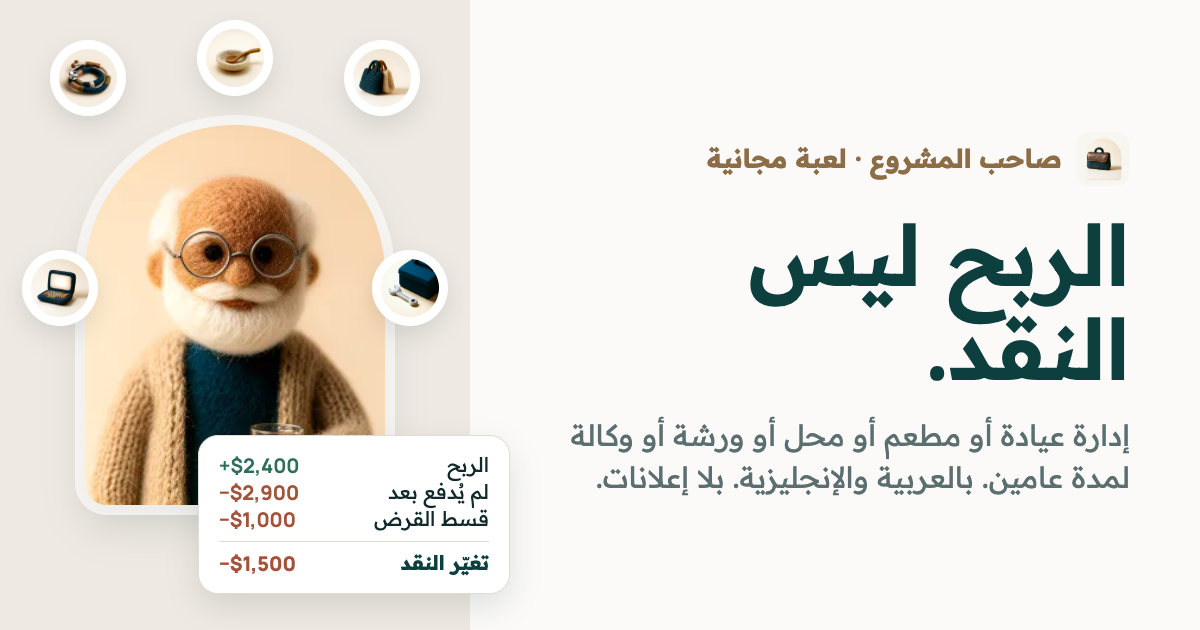
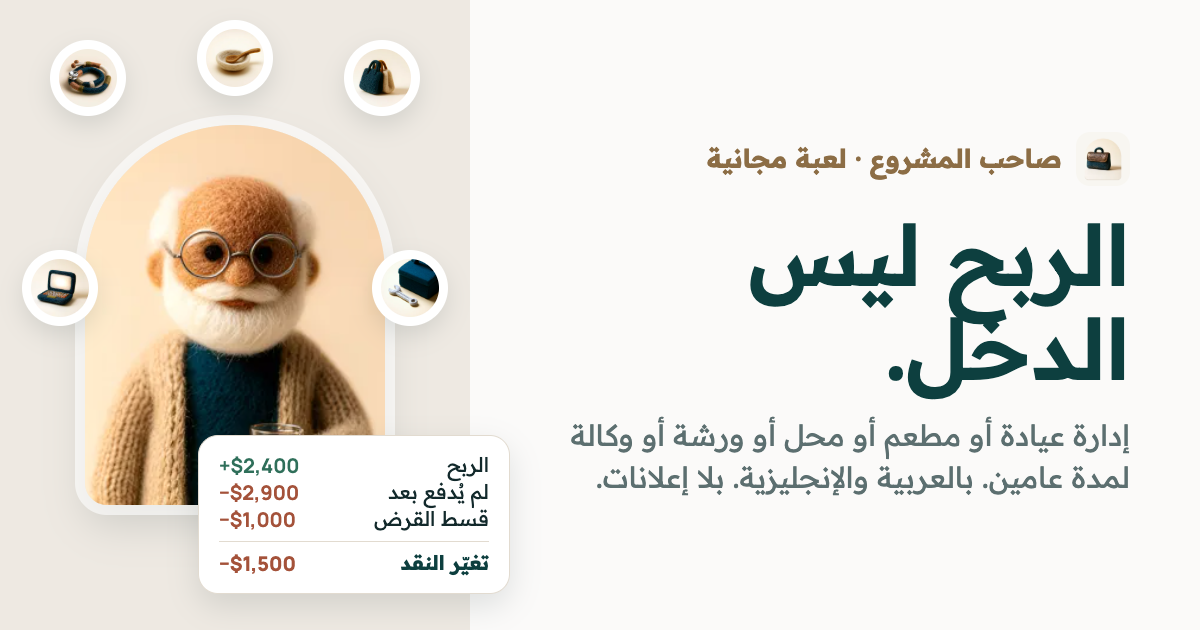
Change the Arabic headline to الربح ليس الدخل

Changed region(s): [[0.74, 0.4825, 0.8942, 0.6333]]

diff --git a/businessowner/ar.html b/businessowner/ar.html
@@ -306,7 +306,7 @@ h1.words .w { display: inline-block; opacity: 0; transform: translateY(.35em); a
     <div class="hero-grid">
       <div>
         <div class="kicker reveal">لعبة مجانية لأصحاب المشاريع الصغيرة</div>
-        <h1 class="words">الربح ليس النقد.</h1>
+        <h1 class="words">الربح ليس الدخل.</h1>
         <p class="sub reveal" style="--i:2">إدارة مشروع صغير لمدة عامين: عيادة أو مطعم أو محل أو ورشة أو وكالة. تحديد الأسعار، والتوظيف، وتحصيل المستحقات، ودفع الإيجار قبل وصول العملاء، وعدم نسيان راتب صاحب المشروع نفسه. العم صلاح أدار صيدلية <bdi class="n">30</bdi> عامًا، ويترك ملاحظة بعد كل اختيار.</p>
         <div class="ctas reveal" style="--i:3"><a class="btn btn-primary" href="../owner/?lang=ar"><img src="../owner/img/briefcase.webp" alt="" width="160" height="160">العبوا الآن</a><a class="btn" href="#programmes"><img src="../owner/img/classical_building.webp" alt="" width="160" height="160">للبرامج والحاضنات</a></div>
         <p class="note reveal" style="--i:4">مجانية · بالعربية والإنجليزية · بلا إعلانات ولا حسابات ولا مشتريات</p>
@@ -315,7 +315,7 @@ h1.words .w { display: inline-block; opacity: 0; transform: translateY(.35em); a
         <figure class="arch mentor" style="margin:0"><img src="../owner/img/old_man.webp" alt="العم صلاح" width="320" height="320">
           <img class="orbit o0" src="../owner/img/stethoscope.webp" alt="" width="160" height="160"><img class="orbit o1" src="../owner/img/cooking.webp" alt="" width="160" height="160"><img class="orbit o2" src="../owner/img/shopping_bags.webp" alt="" width="160" height="160"><img class="orbit o3" src="../owner/img/wrench.webp" alt="" width="160" height="160"><img class="orbit o4" src="../owner/img/laptop.webp" alt="" width="160" height="160"></figure>
         <div class="phone"><img src="shots/ar-home.webp" alt=""></div>
-        <div class="cashcard" aria-label="الربح ليس النقد: شهر في الورشة">
+        <div class="cashcard" aria-label="الربح ليس الدخل: شهر في الورشة">
           <small>الشهر 7 · ورشة نجارة</small>
           <div class="crow profit"><span>الربح</span><b dir="ltr"><span data-to="2400" data-sign="+">+$2,400</span></b></div>
           <div class="crow minus" data-step="1"><span>لم يُدفع بعد</span><b dir="ltr">−$2,900</b></div>
